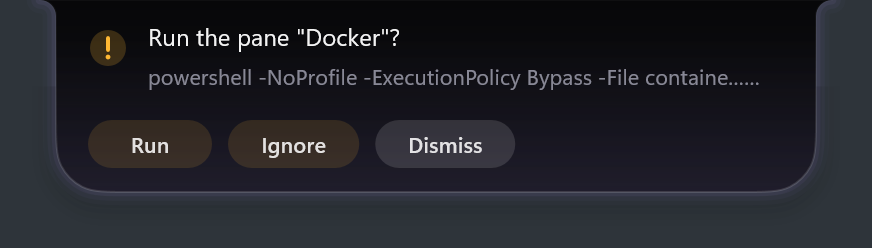
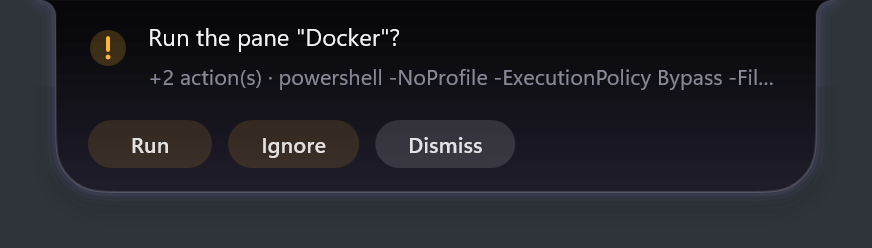
Run card: the +N action(s) hint comes first so a long command can't cut it off (pack_run_note)

Changed region(s): [[0.1548, 0.2823, 0.8979, 0.3669]]

diff --git a/crates/hytte/src/ui_state/actions.rs b/crates/hytte/src/ui_state/actions.rs
@@ -108,3 +108,31 @@ impl Model {
         self.running_actions.retain(|n| n != name);
     }
 }
+
+/// The line on the "Run the pane?" card. The count of extra actions comes first, so a long
+/// command that gets cut at 60 characters can't take the hint with it.
+pub fn pack_run_note(command: &str, extra_actions: usize) -> String {
+    let mut shown: String = command.chars().take(60).collect();
+    if command.chars().count() > 60 {
+        shown.push('…');
+    }
+    if extra_actions > 0 {
+        format!("+{extra_actions} action(s) · {shown}")
+    } else {
+        shown
+    }
+}
+
+#[cfg(test)]
+mod pack_note_tests {
+    use super::pack_run_note;
+
+    #[test]
+    fn the_hint_comes_first_and_survives_a_long_command() {
+        let long = "x".repeat(100);
+        let n = pack_run_note(&long, 2);
+        assert!(n.starts_with("+2 action(s) · "), "{n}");
+        assert!(n.ends_with('…'));
+        assert_eq!(pack_run_note("echo hi", 0), "echo hi");
+    }
+}

diff --git a/crates/hytte/src/window/win/actions.rs b/crates/hytte/src/window/win/actions.rs
@@ -507,13 +507,7 @@ impl Ui {
             let mut c = match &p.state {
                 State::Pending => {
                     let mut c = Chip::new(format!("Run the pane \"{}\"?", p.name), now);
-                    let mut shown: String = p.command.chars().take(60).collect();
-                    if p.command.chars().count() > 60 {
-                        shown.push('…');
-                    }
-                    if !p.actions.is_empty() {
-                        shown = format!("{shown}  +{} action(s)", p.actions.len());
-                    }
+                    let shown = crate::ui_state::pack_run_note(&p.command, p.actions.len());
                     c.note = Some(shown);
                     c.extra = vec![
                         (

diff --git a/crates/hytte/src/render/snap.rs b/crates/hytte/src/render/snap.rs
@@ -2045,13 +2045,8 @@ fn agent_control_snapshots() {
         let mut m = model();
         m.now = Some(now);
         let mut c = Chip::new("Run the pane \"Docker\"?", now);
-        // Built like `Ui::ask_packs`: the first 60 characters of the command, then the actions.
         let command = "powershell -NoProfile -ExecutionPolicy Bypass -File containers.ps1";
-        let mut shown: String = command.chars().take(60).collect();
-        if command.chars().count() > 60 {
-            shown.push('…');
-        }
-        c.note = Some(format!("{shown}  +2 action(s)"));
+        c.note = Some(crate::ui_state::pack_run_note(command, 2));
         c.tone = Tone::Warn;
         c.prio = Prio::Alert;
         c.extra = vec![

diff --git a/manual/11-pane-store.md b/manual/11-pane-store.md
@@ -16,7 +16,7 @@ Hytte then shows a card on the pill with the pane's command and two buttons, **R
 
 <img src="../docs/img/pack-run-card.png" alt="The card Hytte shows for a new pane: its command, with Run, Ignore and Dismiss" width="520">
 
-The card shows the start of the command. A long one from the store is cut off, so use `hytte pack info <name>` to read all of it.
+The card shows the start of the command, after a note such as "+2 action(s)" when the pane has extra buttons. A long command from the store is cut off, so use `hytte pack info <name>` to read all of it.
 
 Before you press Run, take a minute to read what it does: `hytte pack info <name>` prints the commands. Your Run covers the pane's settings file. It does not cover the scripts next to it, so open the pack's folder (`%APPDATA%\Hytte\panes\<name>`) if you want to read those too.
 
